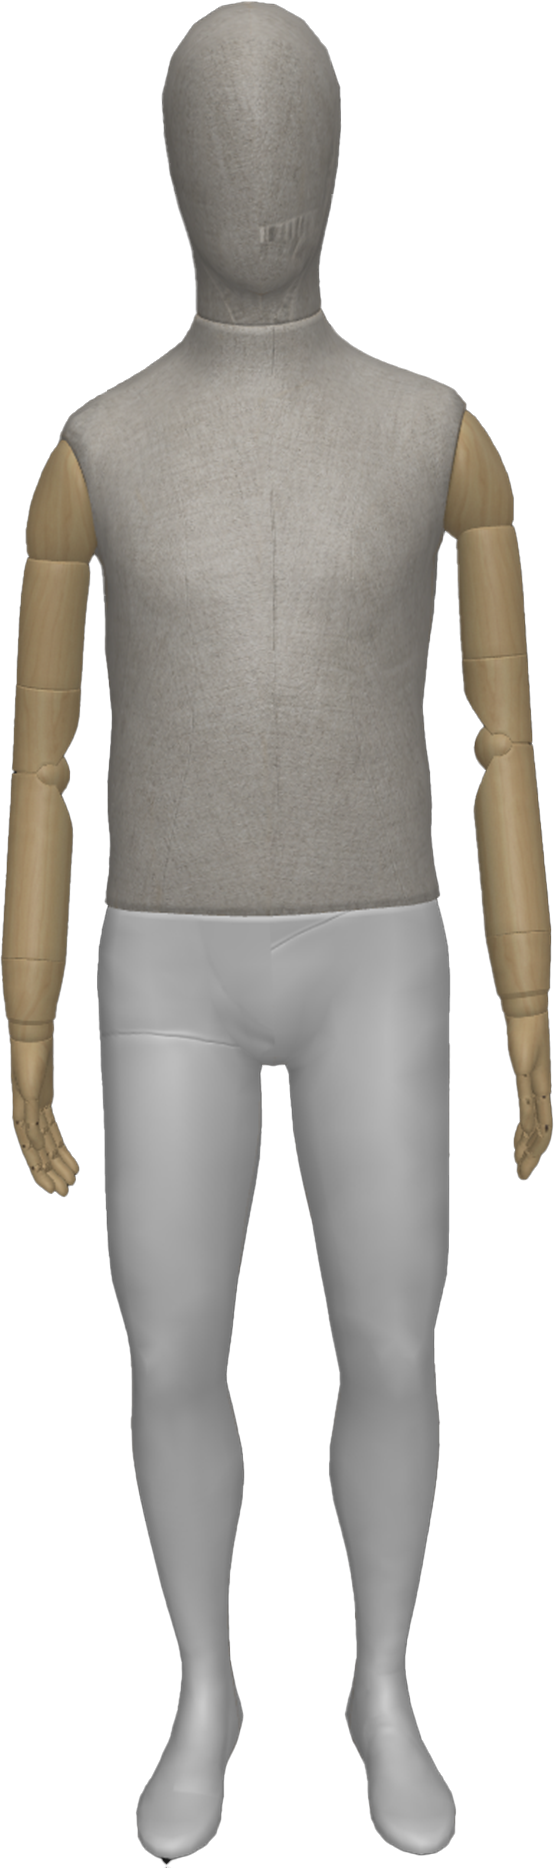
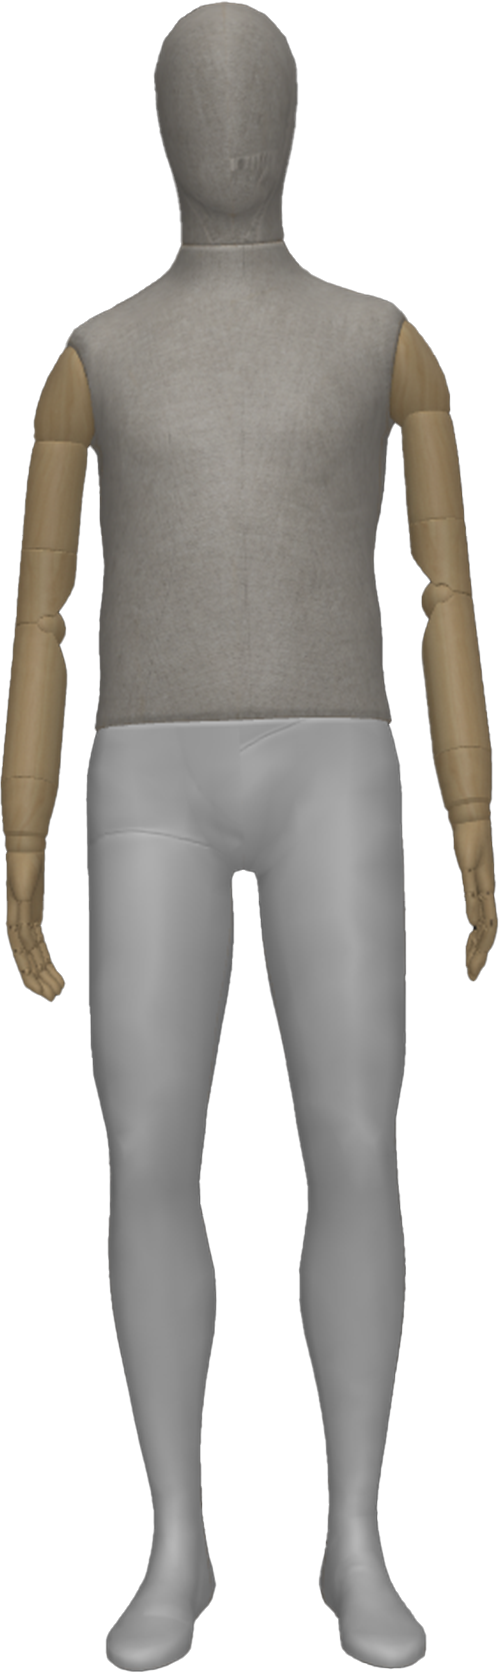
Final cleanup before push

diff --git a/ecommerce-site/components/ModelViewer.vue b/ecommerce-site/components/ModelViewer.vue
@@ -70,13 +70,33 @@ export default {
         (gltf) => {
           console.log("✅ Model loaded:", this.modelPath);
           this.model = gltf.scene;
-          this.model.scale.set(1.1, 1.1, 1.1);
-          this.model.position.set(0, -1, 0);
+
+          // Normalize model scale
+          const box = new THREE.Box3().setFromObject(this.model);
+          const size = box.getSize(new THREE.Vector3());
+          const maxDimension = Math.max(size.x, size.y, size.z);
+          const desiredSize = 2; // Adjust this for consistent size
+          const scaleFactor = desiredSize / maxDimension;
+
+          this.model.scale.set(scaleFactor, scaleFactor, scaleFactor);
+
+          // Center model
+          const center = box.getCenter(new THREE.Vector3());
+          this.model.position.sub(center); // Move to origin
+          this.model.position.set(0, -1, 0); // Adjust height
+
+          // Ensure model faces the correct direction
+          this.model.rotation.y = Math.PI + Math.PI ; // 180° + 90° = 270°
+
+          // If some models face sideways, try adjusting rotation.x or rotation.z
+
           this.scene.add(this.model);
 
+          // Handle animations
           if (gltf.animations.length > 0) {
             this.mixer = new THREE.AnimationMixer(this.model);
-            const action = this.mixer.clipAction(gltf.animations[0]);
+            const lastAnimation = gltf.animations[gltf.animations.length - 1];
+            const action = this.mixer.clipAction(lastAnimation);
             action.play();
           }
 

diff --git a/ecommerce-site/pages/model/_id.vue b/ecommerce-site/pages/model/_id.vue
@@ -46,7 +46,7 @@ export default {
     this.modelPath = this.models[this.$route.params.id] || null;
   },
   methods: {
-  
+   
 },
 };
 </script>
